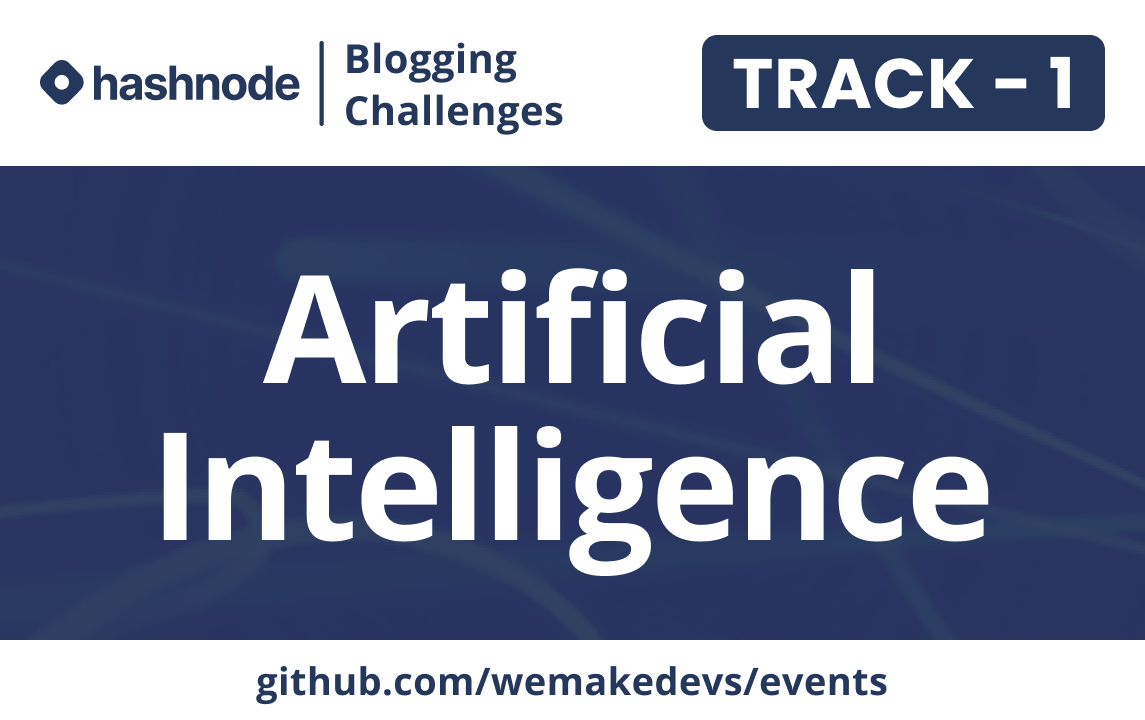
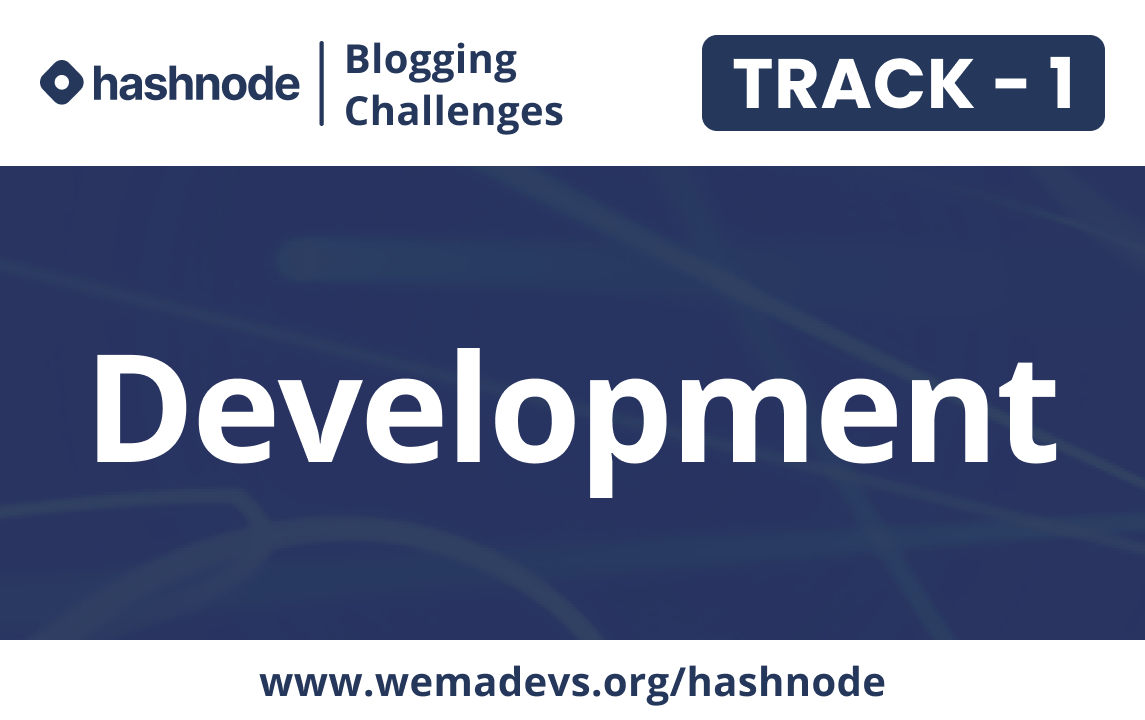
ADD: Jan 2023 hashnode challenge (#10)
* Add December winners

* ADD January Tracks

* ADD: Special track

* ADD: Grand Prize

* Add Speical Prize

* Update: Prize image

Changed region(s): [[0.0611, 0.3667, 0.9476, 0.825], [0.214, 0.9167, 0.7948, 0.9778]]

diff --git a/hashnode/README.md b/hashnode/README.md
@@ -17,7 +17,7 @@ You can participate in a few simple steps.
 ### How to win the grand prize
 Each month there will be a grand prize such as Apple iPhones, Macbooks, etc.
 
-At the end of the month, the person who writes the best blogs will win the grand prize.
+At the end of the month, the person who writes the best quality blogs will win the grand prize.
 
 ### Special track
 Apart from the 4 tracks mentioned above, we will occasionally be having a special track as well. This special track will be based on a certain theme for the month. 
@@ -28,10 +28,10 @@ You can write blogs on the given theme, submit them, and win a special prize as 
 
 ## What are the prizes for this month
 
-We have an exciting prize for December! Check it out :point_down:
+We have an exciting prize for January! Check it out :point_down:
 
 <p align="center">
-    <img width="48%" src="../assets/hashnode/Special_prize.png" />
+    <img width="48%" src="../assets/hashnode/Special-Prize.png" />
 </p>
 
 ## What are the tracks for the current month?
@@ -44,9 +44,10 @@ Below you can find the current tracks for this month.
 </p>
 
 ### Special track!
-For this month, we will be partnering with EddieHub! Write a blog sharing how you have grown by collaborating with people and stand a chance to win a Keychron Keyboard. :keyboard:
+
+2022 just ended, and we're sure you've learned a ton of things. Write a blog sharing all your learnings and acheivements from 2022, and stand a chance to win a RGB mechanical keyboard. :keyboard:
 <p align="center">
-  <img width="48%" src="../assets/hashnode/Special_track.png" />
+  <img width="48%" src="../assets/hashnode/Special-Track.png" />
  
 </p>
 
@@ -74,5 +75,6 @@ Check out some of the previous winners of the Hashnode Challenge.
   <img width="33%" src="../assets/hashnode/Special_October.jpg" />
   <img width="33%" src="../assets/hashnode/Winner_November.jpg" />
   <img width="33%" src="../assets/hashnode/Special_November.jpg" />
+  <img width="33%" src="../assets/hashnode/Special_December.jpg" />
 </p>
 
